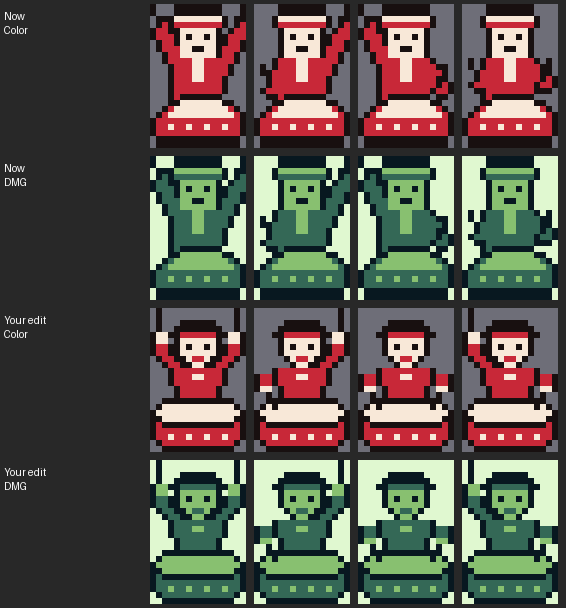
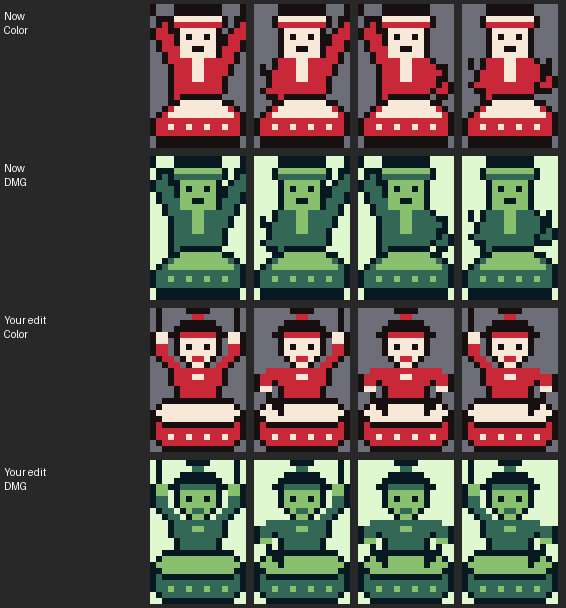
Owner's Teahouse edit 3 and Saloon pose saved
Claude-Session: https://claude.ai/code/session_01WXumg9pvGTKbXyU3qBciuY

diff --git a/docs/dev/notes/QUEUE.md b/docs/dev/notes/QUEUE.md
@@ -199,3 +199,4 @@ Back views still to draw: DUSTY, HANK, MABEL (placeholder), ROSIE, EMMA, ARTIE, 
 - Owner 2026-11-02 sent a 2nd drum edit (rounded drum bottom, rows 22-23; frame 3's drum now matches the others) -> replaces teahouse_show_owner.txt; drum rows 18-23 identical in all 4 frames.
 - Q6 OPEN 2026-11-02: Factory robot p4 (factory_show_p4.txt: frame 3 arms joined to a shoulder bar, smile in all 4 frames incl. upside-down frame 2; dark neck band in frame 3) yes / another pass.
 - Q7 ANSWERED 2026-11-02 (owner): "Sure a" = build option (a): Color only, the show gets its own OBJ palette above the stage line (loaded in VBlank), the patrons' OBJ palette is put back by the mid-frame chain below the stage (HBlank), so the dancers stop borrowing a patron slot and that slot serves patrons all the time. DMG unchanged. Option (b) (one palette per band member) may follow on the same code later. -> gb-worker. ROM0 floor 421 stays (recover ROM0 first if needed); perf guards never raised.
+- Owner 2026-11-02 sent (1) a 3rd Teahouse edit (top-knot hair, arm/stick changes rows 0-1, 6-11, 16-17) -> teahouse_show_owner.txt replaced; (2) a Saloon can-can pose, 16x24, in black / purple 6d24aa / skin f8c090 (+4 navy eye px, 2 gold bow px) -> saloon_owner_pose.txt mapped to 3 colours (navy->black, gold->purple). PLAN: gb-artist animates the 4 can-can frames from his pose (his pose = frame 0, untouched), new Saloon show palette skin/purple/black (Color; DMG greys as usual); Q7 gives the show its own OBJ palette so the colour change touches no patron.
